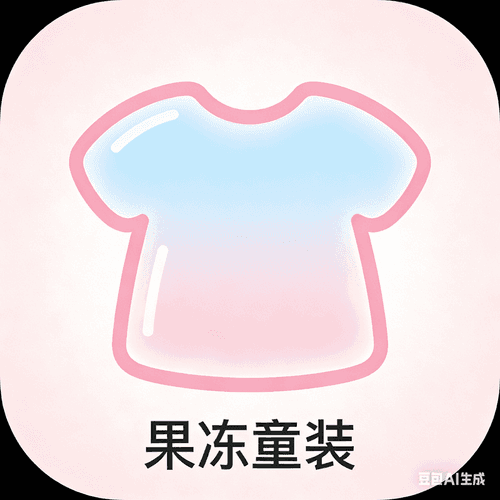
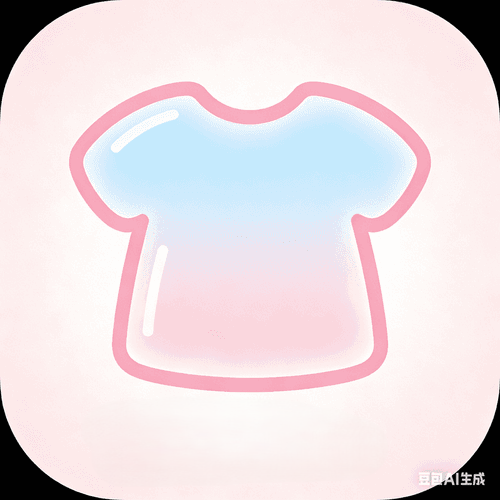
修改

Changed region(s): [[0.27, 0.84, 0.72, 0.96]]

diff --git a/pages/goods/details/components/goods-specs-popup/index.js b/pages/goods/details/components/goods-specs-popup/index.js
@@ -12,6 +12,11 @@ Component({
     show: {
       type: Boolean,
       value: false,
+      observer(show) {
+        if (show && this.properties.details && this.properties.details.spec_ids) {
+          this.initAllSizeList();
+        }
+      },
     },
     selectedAttrStr:{
       type: String,
@@ -47,6 +52,8 @@ Component({
     buyNum: 1,
     sizeMoney:null,
     SizeList:[],
+    allSizeList:[],
+    ColorList:[],
     checkType:[],
     SizeListNum:0,
     isAllSelectedSku: false,
@@ -54,36 +61,62 @@ Component({
     selectedSpecIndex: -1,
     stock:0,
     actNumId:'',
-    iconImg:''
+    iconImg:'',
+    showImagePreview: false,
+    previewImageList: [],
+    previewImageIndex: 0,
   },
 
   methods: {
-    showGGList(row){
-      console.log(row);
+    // 初始化所有尺码列表（弹窗打开时调用）
+    initAllSizeList() {
+      const specIds = this.properties.details.spec_ids || [];
+      const sizeMap = {};
+      specIds.forEach(item => {
+        if (!sizeMap[item.childName]) {
+          sizeMap[item.childName] = {
+            childName: item.childName,
+            stock: item.stock,
+            typeimg: item.typeimg,
+          };
+        } else {
+          sizeMap[item.childName].stock += item.stock;
+        }
+      });
+      this.setData({
+        allSizeList: Object.values(sizeMap),
+      });
+    },
+
+    // 选尺码 → 关联出颜色
+    showSizeList(row) {
       let FunInfo = row.currentTarget.dataset
       let arrDate = []
-      for(let y of this.properties.details.spec_ids){
-        if(y.parentName == FunInfo.name){
+      for (let y of this.properties.details.spec_ids) {
+        if (y.childName == FunInfo.name.childName) {
           arrDate.push(y)
         }
       }
-      
       this.setData({
-        actNum:FunInfo.name,
-        SizeList:arrDate,
-        actSizeNum:''
+        actSizeNum: FunInfo.name.childName,
+        ColorList: arrDate,
+        actNum: '',
+        sizeMoney: null,
+        stock: 0,
+        iconImg: '',
+        actNumId: '',
       })
-      console.log(this.data);
     },
-    showSizeList(row){
+
+    // 选颜色 → 确定最终SKU
+    showGGList(row) {
       let FunInfo = row.currentTarget.dataset
-      console.log(FunInfo);
       this.setData({
-        sizeMoney:FunInfo.money,
-        actSizeNum:FunInfo.name.childName,
-        stock:FunInfo.name.stock,
-        iconImg:FunInfo.name.typeimg,
-        actNumId:FunInfo.name.id
+        actNum: FunInfo.name.parentName,
+        sizeMoney: FunInfo.money,
+        stock: FunInfo.name.stock,
+        iconImg: FunInfo.name.typeimg,
+        actNumId: FunInfo.name.id,
       })
     },
     checkSkuStockQuantity(specValueId, skuList) {
@@ -151,13 +184,55 @@ Component({
     },
 
     previewImage() {
-      const url = this.data.iconImg || this.data.details.main_image;
-      if (!url) return;
-      wx.previewImage({
-        current: url,
-        urls: [url],
+      const colorList = this.data.ColorList || [];
+      const imageColors = colorList.filter(item => item.typeimg);
+      if (imageColors.length === 0) {
+        // 没有颜色图片，直接预览主图
+        const url = this.data.iconImg || this.data.details.main_image;
+        if (!url) return;
+        wx.previewImage({ current: url, urls: [url] });
+        return;
+      }
+      // 找到当前图片对应的索引
+      let currentIndex = 0;
+      if (this.data.iconImg) {
+        const idx = imageColors.findIndex(item => item.typeimg === this.data.iconImg);
+        if (idx >= 0) currentIndex = idx;
+      } else if (this.data.actNum) {
+        const idx = imageColors.findIndex(item => item.parentName === this.data.actNum);
+        if (idx >= 0) currentIndex = idx;
+      }
+      this.setData({
+        showImagePreview: true,
+        previewImageList: imageColors,
+        previewImageIndex: currentIndex,
       });
     },
+
+    onPreviewSwiperChange(e) {
+      const index = e.detail.current;
+      const color = this.data.previewImageList[index];
+      if (!color || color.parentName === this.data.actNum) return;
+      // 自动选中该颜色类型（同 showGGList 逻辑）
+      this.setData({
+        previewImageIndex: index,
+        actNum: color.parentName,
+        sizeMoney: color.price,
+        stock: color.stock,
+        iconImg: color.typeimg,
+        actNumId: color.id,
+      });
+    },
+
+    closeImagePreview() {
+      this.setData({ showImagePreview: false });
+    },
+
+    // 阻止预览层穿透滚动
+    preventMove() {},
+
+    // 阻止预览层点击关闭（仅点击遮罩关闭）
+    preventClose() {},
 
     specsConfirm() {
       const { isStock } = this.properties;

diff --git a/services/cart/cart.js b/services/cart/cart.js
@@ -87,7 +87,7 @@ export function fetchCartGroupData() {
       if (cartData.code === 0) {
         // 获取购物车商品列表
         const cartList = Array.isArray(cartData.data?.list) ? cartData.data.list : [];
-
+        console.log(cartList);
         if (cartList.length === 0) {
           return {
             goodsList: [],
@@ -134,6 +134,7 @@ function transformCartData(backendData) {
   }
 
   cartList.forEach(item => {
+    console.log(item);
     // 确保 is_valid 是布尔值，默认为 true（商品有效）
     const isValid = item.is_valid === true || item.is_valid === undefined;
     // 获取该商品的规格数据
@@ -155,11 +156,18 @@ function transformCartData(backendData) {
     } else {
 
     }
-
+    let typesimg = ''
+    let sku_idarrs = item.sku_id?item.sku_id.split(','):[]
+    for(let yy of item.good_types){
+      if(sku_idarrs.length > 0 && yy.parentName == sku_idarrs[0] && yy.childName == sku_idarrs[1]){
+        typesimg = yy.typeimg
+      }
+    }
 
     const goodsItem = {
       cart_id: item.cart_id,
       act_num_id: item.act_num_id,
+      typesimg: typesimg,
       spuId: item.product_id,
       skuId: item.sku_id || null,
       title: item.name,

diff --git a/pages/user/login/index.js b/pages/user/login/index.js
@@ -117,7 +117,11 @@ Page({
       }, 2000);
     }
   },
-
+  gotopages(){
+    wx.switchTab({
+      url: '/pages/home/home',
+    });
+  },
   // 手机号输入
   onPhoneInput(e) {
     this.setData({

diff --git a/pages/cart/index.js b/pages/cart/index.js
@@ -51,6 +51,7 @@ Page({
         isAllSelected = false;
       } else {
         cartGroupData.goodsList.forEach((goods) => {
+          console.log(goods);
           if (goods.isSelected) {
             totalAmount += goods.price * goods.quantity;
             selectedGoodsCount += goods.quantity;
@@ -258,6 +259,7 @@ Page({
   },
 
   goGoodsDetail(e) {
+    console.log(e);
     const quantity = e.currentTarget.dataset.spuid;
     wx.navigateTo({
       url: `/pages/goods/details/index?spuId=${quantity}`,